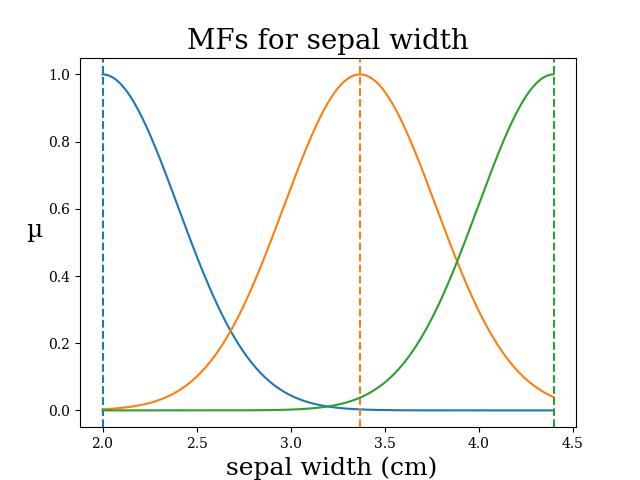
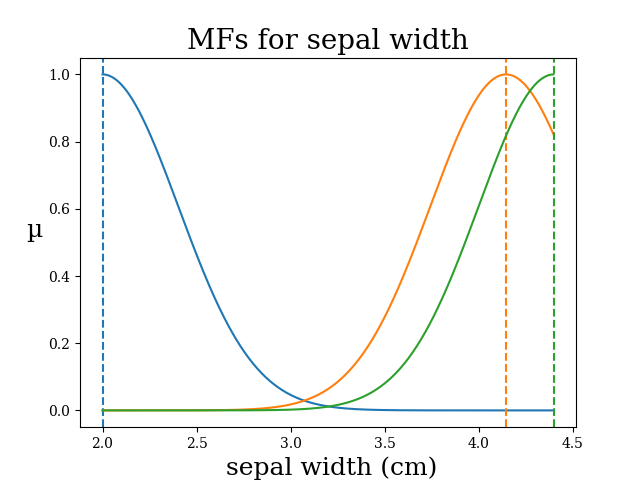
need to find optimal hyper para config again

diff --git a/model_pkg/Model.py b/model_pkg/Model.py
@@ -43,7 +43,7 @@ class Model():
         self.train()
         self.summary()
 
-    def build_MyArc(self):
+    def build(self):
         # load data for building my arc
         self.data.load_data_for_building()
         self.builder.arc = self.arc#
@@ -68,7 +68,7 @@ class Model():
         self.classifier.arc = self.arc
         return self.classifier.get_class_accuracy(self.data.inputs, self.data.targets, self.data.df_name)
 
-    def load_MyArc(self):   
+    def load(self):   
         # load data for building my arc
         self.data.load_data_for_building()
         self.builder.arc = self.arc
@@ -76,7 +76,7 @@ class Model():
         load_weights(self.arc.FuzzificationLayer, "widths", self.data.df_name)
         load_weights(self.arc.RuleConsequentLayer, "class_weights", self.data.df_name)
 
-    def trainMyArc(self, save=False):
+    def train(self, save=False):
         # get feature_names names 
         self.data.load_data_for_training() # doubled ! hc
         self.trainer.builder = self.builder
@@ -84,7 +84,11 @@ class Model():
         self.trainer.max_vals = self.data.feature_maxs
         self.trainer.min_vals = self.data.feature_mins
         self.trainer.n_mfs = self.arc.n_mfs
-        self.train()
+        self.trainer.arc = self.arc
+        # trainig model
+        self.trainer(self.data.train_ds,  self.data.test_ds, self.data.validation_ds)
+        # saving figs after training
+        self.trainer.visualize_training(df_name=self.data.df_name, type_model=self.arc.Name)
         MFs.visuMFs(self.arc.FuzzificationLayer, df_name=self.data.df_name, dir="after_training", max_vals=self.data.feature_maxs,  min_vals= self.data.feature_mins,mf_names=self.arc.fuzzy_labels )
         
         
@@ -95,17 +99,6 @@ class Model():
         #self.arc.FuzzificationLayer.save_weights(self.data.df_name)
 
 
-    def train(self):
-        """Calling trainer
-        """
-        # loading data, performing datapipeline and getting datasets
-        self.data.load_data_for_training()
-        self.trainer.arc = self.arc
-       # tf.keras.backend.clear_session()
-        # trainig model
-        self.trainer(self.data.train_ds,  self.data.test_ds, self.data.validation_ds)
-        # saving figs after training
-        self.trainer.visualize_training(df_name=self.data.df_name, type_model=self.arc.Name)
 
     
 

diff --git a/main.py b/main.py
@@ -24,7 +24,7 @@ def main():
 "╚═╝░░╚══╝╚══════╝░╚═════╝░╚═╝░░╚═╝░╚════╝░░░░░░░╚═╝░░░░░░╚═════╝░╚══════╝╚══════╝░░░╚═╝░░░░░░░░░╚═╝░░░░░╚═╝░╚════╝░╚═════╝░╚══════╝╚══════╝")
 
     learning_rate = 1.0
-    n_epochs = 1
+    n_epochs = 3
 
     # parameters for running iris dataset
     df_name = "iris"
@@ -44,9 +44,9 @@ def main():
                      MyArcTrainer(n_epochs=n_epochs, learning_rate=learning_rate),
                      Builder(),
                      Classifier())
-    MyModel.build_MyArc() 
-   # MyModel.load_MyArc()
-    MyModel.trainMyArc(save=True)
+    MyModel.build() 
+    #MyModel.load()
+    MyModel.train(save=True)
     print(MyModel.class_acc()) 
 
 

diff --git a/neurofuzzy_pkg/MyArcTrainer.py b/neurofuzzy_pkg/MyArcTrainer.py
@@ -321,7 +321,7 @@ class MyArcTrainer(Trainer):
                 if p <= mins.iloc[i] or p >= hmm.iloc[i]: # range 
                     deltas[i] = 0#0.00001 # randomize todo
 
-                elif i in [1,4,7,10] and p >= hmm.iloc[i] - (1/5* (hmm.iloc[i] - mins.iloc[i])): # middle center passing
+                elif i in [1,4,7,10] and p >= hmm.iloc[i] - (1/10* (hmm.iloc[i] - mins.iloc[i])): # middle center passing
                     deltas[i] = 0#0.00001 # randomize todo
             if param_name == "widths":
                 
